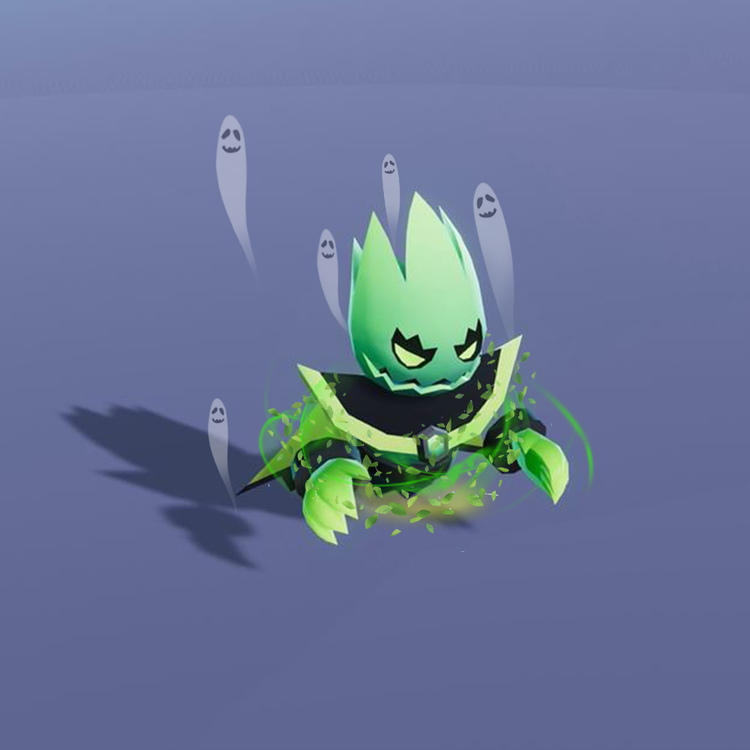
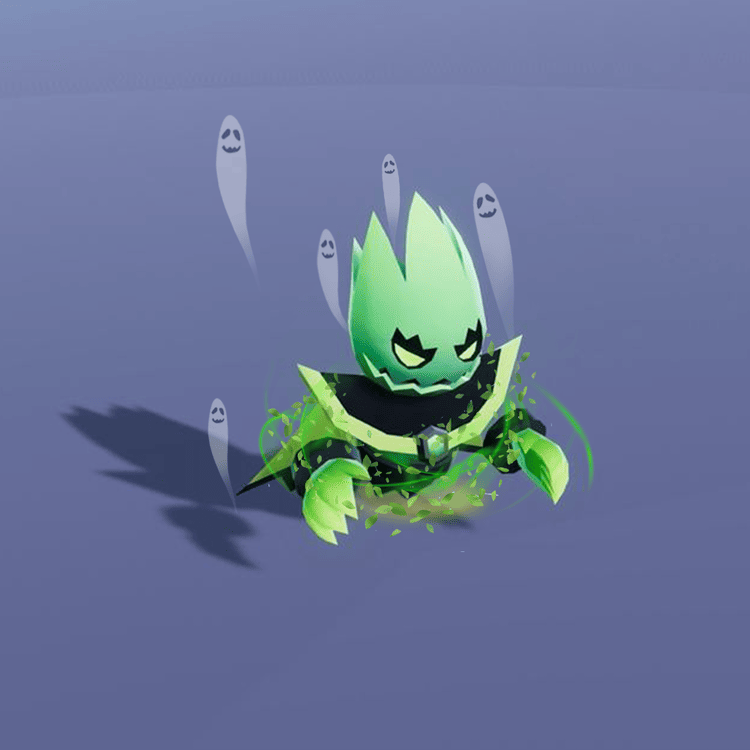
Update image and media

diff --git a/index.html b/index.html
@@ -333,7 +333,7 @@
           increase or limit strength.
         </p>
         <!-- <img src="./images/img-stone.png" alt="stone" class="key-stone-img" /> -->
-        <img src="./images/img-plate.png" alt="plate" class="key-plate-img" />
+        <img src="./images/img-plate.webp" alt="plate" class="key-plate-img" />
         <!-- <img src="./images/img-exp-item-07.png" alt="animal" class="key-animal-img" /> -->
       </div>
     </section>
@@ -506,7 +506,7 @@
         <h2 class="road-year">ROAD MAP</h2>
         <div class="road-container">
           <div class="road-left">
-            <img src="./images/img-road-map-01.png" alt="roadmap">
+            <img src="./images/img-road-map-01.webp" alt="roadmap">
           </div>
           <!-- <div class="road-right">
             <img src="./images/img-road-map-02.png" alt="roadmap">

diff --git a/style.css b/style.css
@@ -1192,7 +1192,7 @@ button {
 }
 
 .play {
-  background: url(./images/img-play-bg.png) no-repeat center/cover;
+  background: url(./images/img-play-bg.webp) no-repeat center/cover;
   color: white;
   padding: 5rem 0 10rem;
 }

diff --git a/styles/layout/_play.scss b/styles/layout/_play.scss
@@ -1,5 +1,5 @@
 .play {
-  background: url(./images/img-play-bg.png) no-repeat center / cover;
+  background: url(./images/img-play-bg.webp) no-repeat center / cover;
   color: white;
   padding: 5rem 0 10rem;
   &-title {
